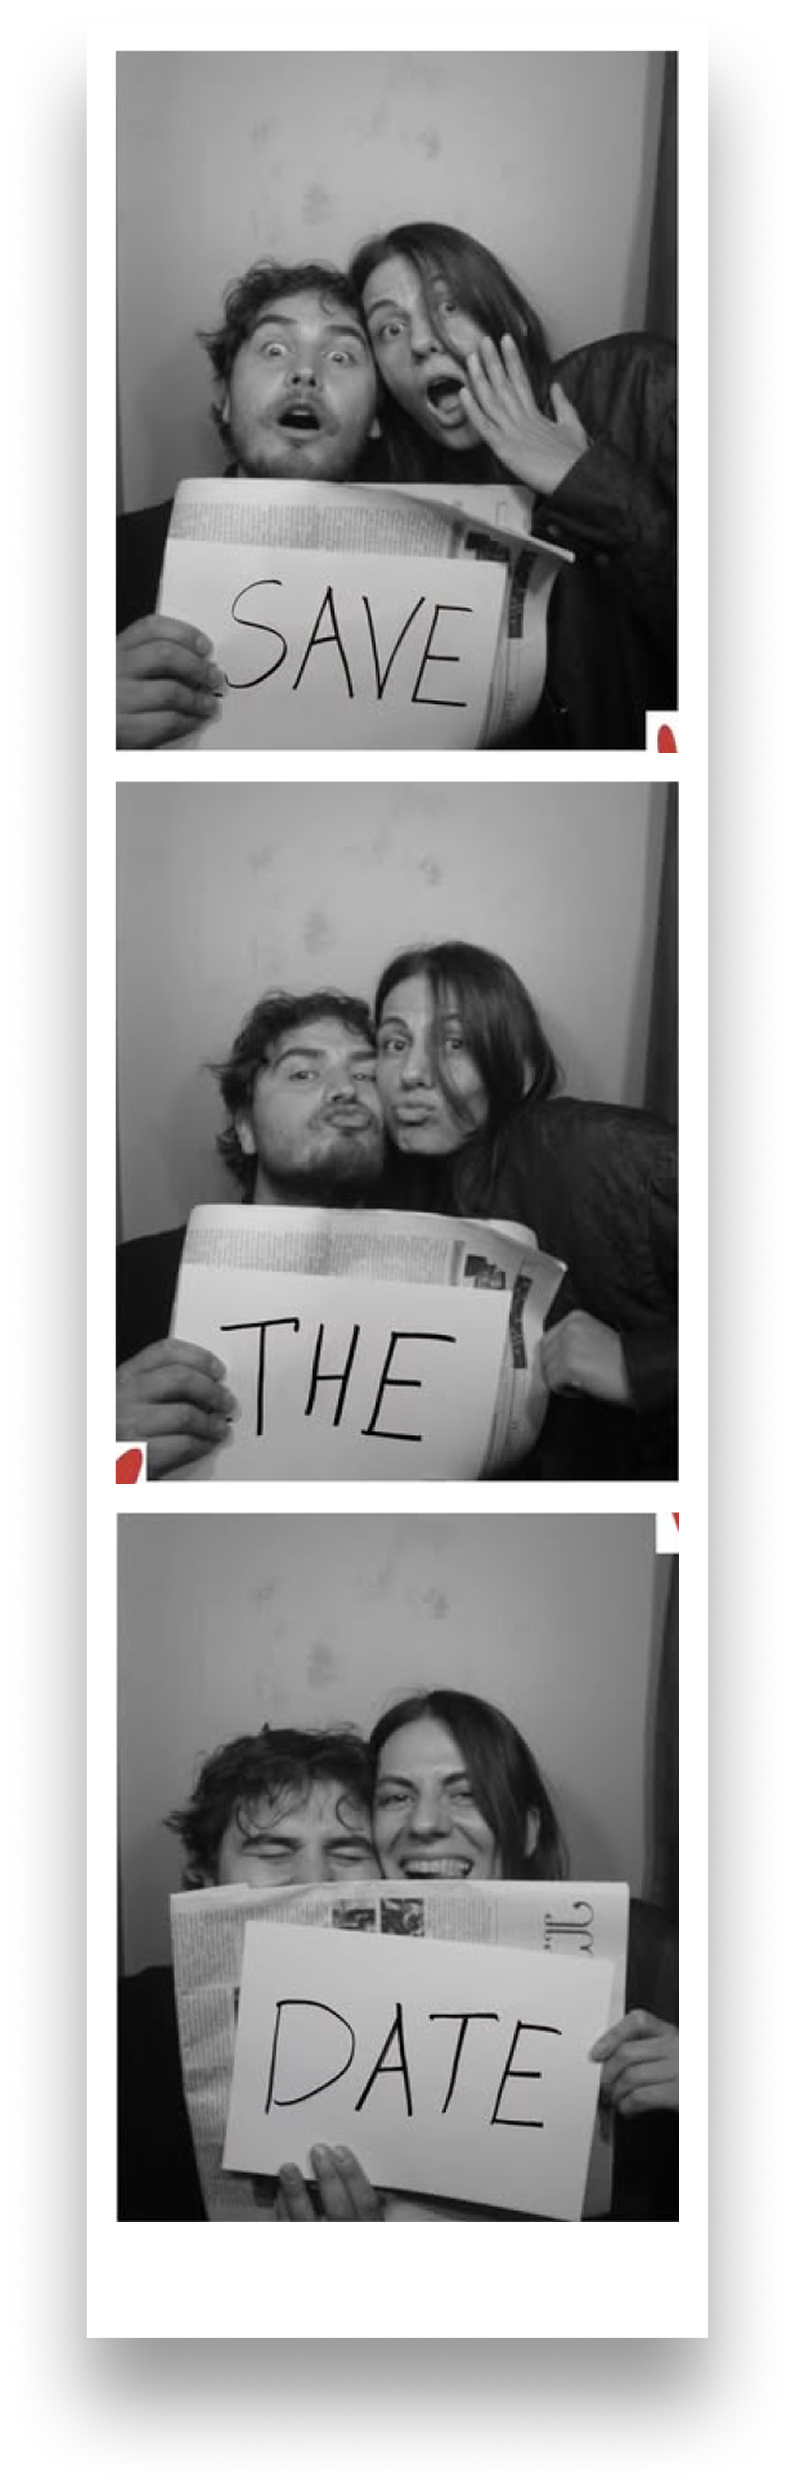
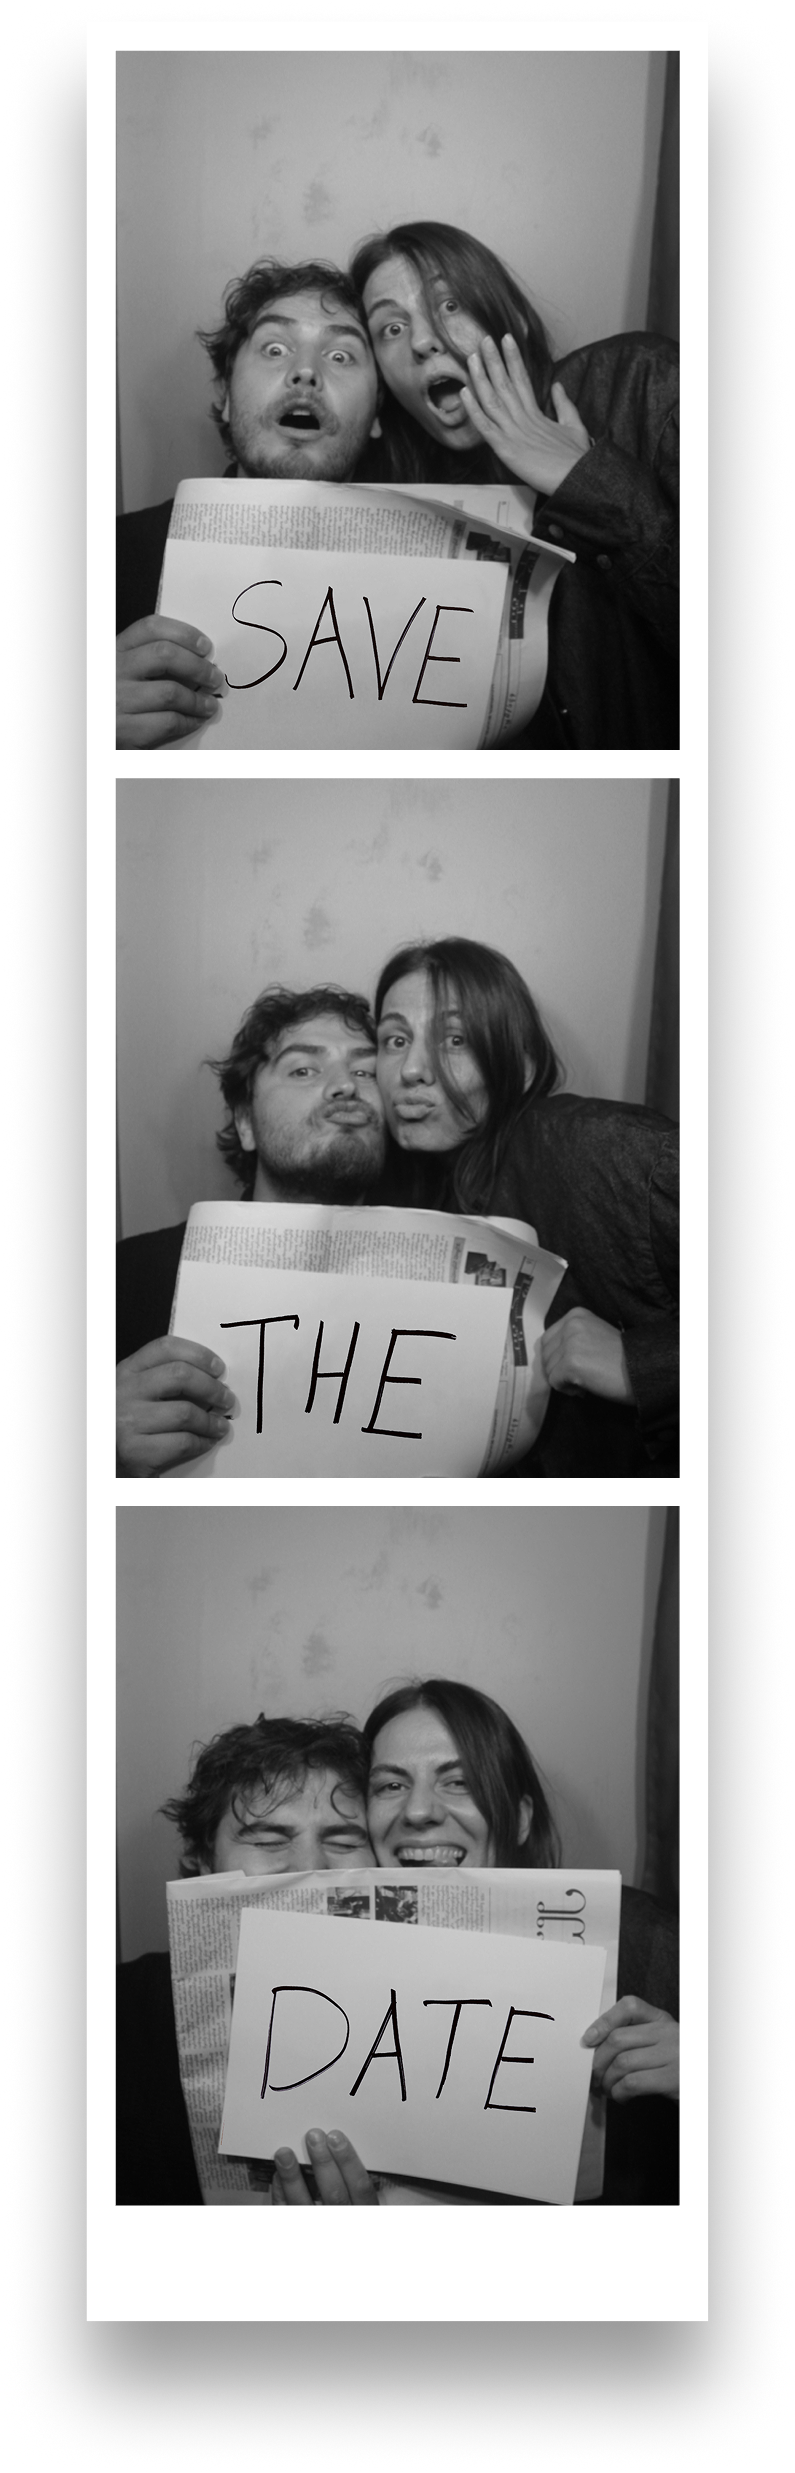
Switch assets to lightweight .webp format for ultra-fast site loading

diff --git a/src/imports/Landing-1/index.tsx b/src/imports/Landing-1/index.tsx
@@ -1,7 +1,7 @@
 import { useState, useEffect, useRef, useLayoutEffect } from "react";
 import svgPaths from "./svg-u7hmm6k8ko";
 import imgWhiteRecyclePaperTexture1 from "./b571be2bd644fad5e661573ed90aa6140b66ff99.png";
-import imgLocationAsset from "./locationasset.png";
+import imgLocationAsset from "./locationasset.webp";
 import imgShukuraLogo from "./shukura.svg";
 import imgRoomsLogo from "./roomslogo.svg";
 
@@ -326,11 +326,11 @@ export function RevealAbsolute({
   );
 }
 
-import imgPhotoboothMachine from "./photobooth_machine.png";
-import imgPhotostrip from "./photostrip.png";
-import imgSubtract from "./444e9235245eef74dc951c60d71a7716988d0f8f.png";
+import imgPhotoboothMachine from "./photobooth_machine.webp";
+import imgPhotostrip from "./photostrip.webp";
+import imgSubtract from "./444e9235245eef74dc951c60d71a7716988d0f8f.webp";
 import imgHeroThumbnail from "./0bde0fb7b7298f91fba64b1eb2c05eacd15fb39f.png";
-import imgUnion from "./ad38b9bb655a8094ac3dd084c0e2364783073b46.png";
+import imgUnion from "./ad38b9bb655a8094ac3dd084c0e2364783073b46.webp";
 import imgImage5 from "./53cfc58b69a6f626a5ab1a7f438be72ddb5386cc.png";
 import imgImage6 from "./132f16979643c122ddccab209a5e5aa9833d5684.png";
 import imgImage7 from "./b133bae01bcd5af90bb9d43ae535df601b7f910a.png";
@@ -340,12 +340,12 @@ import imgImage11 from "./1613d811fda01150e34828fa74a702460eabab63.png";
 import imgImage12 from "./a82a9ee50e31e80118eb5016ff78bc5d1e8f8062.png";
 import imgImage10 from "./672fa1b57ac1ff3c7c0332d5f72735c8d31c49f7.png";
 import imgImage8 from "./7a7a1fda92711f7908f867f3b7d1545ad7a40b15.png";
-import imgHolyCeremony from "./holyceremony.png";
-import imgWarmWelcome from "./warm welcome.png";
-import imgSayingIDo from "./saying i do.png";
-import imgCocktailHour from "./cocktail hour.png";
-import imgDinnerToasts from "./dinner toasts.png";
-import imgCakeCelebration from "./cake celebration.png";
+import imgHolyCeremony from "./holyceremony.webp";
+import imgWarmWelcome from "./warm welcome.webp";
+import imgSayingIDo from "./saying i do.webp";
+import imgCocktailHour from "./cocktail hour.webp";
+import imgDinnerToasts from "./dinner toasts.webp";
+import imgCakeCelebration from "./cake celebration.webp";
 
 function Bg() {
   const tiles = Array.from({ length: 18 });
